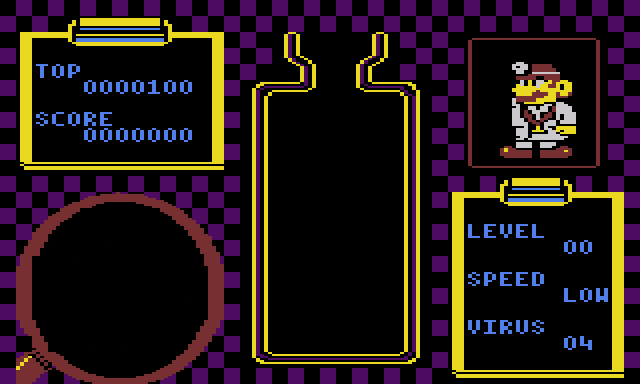
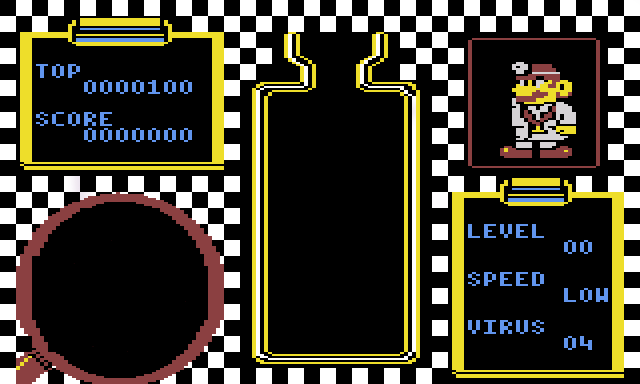
Changed colors on next levels

diff --git a/scripts/constants.js b/scripts/constants.js
@@ -6,13 +6,14 @@ export const BOARD_ROWS = 17;
 export const THROW_BOARD_COLUMNS = 12;
 export const THROW_BOARD_ROWS = 8;
 
+// Object.freeze make obj work like enum
 export const CHECK_CELL_CAN_MOVE_STATUSES = Object.freeze({
     canMove: 0,
     hitBorder: 1,
     tooMuchDistance: 2,
     hitOtherBlock: 3,
 });
-export const CELL_TYPES = Object.freeze({ blank: 0, pill: 1, virus: 2 }); // Object.freeze make obj work like enum
+export const CELL_TYPES = Object.freeze({ blank: 0, pill: 1, virus: 2 });
 export const COLORS = ["bl", "br", "yl"];
 
 export const PILL_FALL_FREQUENCY = 700;
@@ -24,12 +25,21 @@ export const SCORE_MARGIN_TOP = "8.8vh";
 export const TOP_MARGIN_TOP = "10.7vh";
 
 export const VIRUSES_POSITIONS = [
-    ['4.166vh', '35.5%'],
-    ['10.4vh', '19%'],
-    ['18.5vh', '7.69%'],
-    ['29vh', '17%'],
-    ['34vh', '35.5%'],
-    ['27vh', '50%'],
-    ['18.5vh', '61.5%'],
-    ['8.4vh', '51%']
-]
+    ["4.166vh", "35.5%"],
+    ["10.4vh", "19%"],
+    ["18.5vh", "7.69%"],
+    ["29vh", "17%"],
+    ["34vh", "35.5%"],
+    ["27vh", "50%"],
+    ["18.5vh", "61.5%"],
+    ["8.4vh", "51%"],
+];
+
+export const STAGES_COLORS = [
+    "#621c73",
+    "#308572",
+    "#83b2ff",
+    "#eeeef2",
+    "#4700a1",
+    "#6f205f",
+];

diff --git a/scripts/app.js b/scripts/app.js
@@ -1,6 +1,6 @@
 import Board from "./classes/Board.js";
 import LevelCountBlock from "./classes/LevelCountBlock.js";
-import { PILL_FALL_FREQUENCY, REFRESH_RATE } from "./constants.js";
+import { PILL_FALL_FREQUENCY, REFRESH_RATE, STAGES_COLORS } from "./constants.js";
 
 ("use strict");
 
@@ -20,6 +20,9 @@ let startGame = () => {
 
     // start clock refreshing game elements
     setInterval(refreshDisplay, REFRESH_RATE);
+
+    // color body to stage color
+    changeStageColor();
 };
 
 let initNewPill = () => {
@@ -129,6 +132,13 @@ let goToNextStage = () => {
     levelCountBlock.setNextLvl(stage);
     gameStopped = false;
     startGame();
+}
+
+let changeStageColor = () =>{
+    let color = STAGES_COLORS[stage % STAGES_COLORS.length];
+    ['app', 'winInfo', 'loseInfo'].forEach(blockId => {
+        document.getElementById(blockId).style.backgroundColor = color;
+    })
 }
 
 startGame();

diff --git a/scripts/classes/RecordsBlock.js b/scripts/classes/RecordsBlock.js
@@ -3,7 +3,7 @@
 import { SCORE_MARGIN_TOP, TOP_MARGIN_TOP } from "../constants.js";
 
 export default class ScoreBlock {
-    constructor(htmlNode) {
+    constructor() {
         this.node = document.getElementById('scoreBlock');
         this.top = this.getTop();
         this.score = 0;
